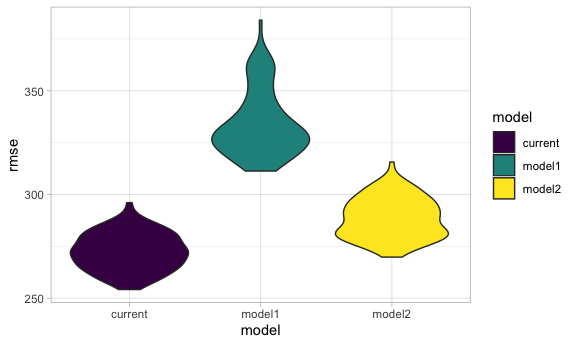
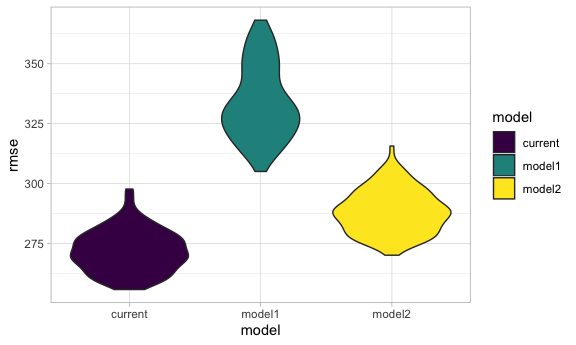
add comment to the two distribution plots

diff --git a/hw6.md b/hw6.md
@@ -353,9 +353,9 @@ cv_df %>%
 
 | model   | avg\_rmse |
 | :------ | --------: |
-| current |  272.3942 |
-| model1  |  334.0407 |
-| model2  |  288.5015 |
+| current |  271.7712 |
+| model1  |  333.7550 |
+| model2  |  288.3390 |
 
 According to the plot and table, we know that current model has better
 predictive capability compared to the two given models.
@@ -388,7 +388,7 @@ weather_df =
 
     ## file min/max dates: 1869-01-01 / 2020-11-30
 
-##### produce estimated of the two quantities
+##### produce estimated of the r-square and log(beta0\*beta1)
 
 ``` r
 boot_straps = 
@@ -449,6 +449,8 @@ beta_df %>%
 ```
 
 <img src="hw6_files/figure-gfm/unnamed-chunk-10-2.png" width="90%" />
+According to these to plots, we can conclude that the distribution of
+the r-square and log(beta0\*beta1) are aprroximately normal.
 
 ##### identify the 2.5% and 97.5% quantiles to provide a 95% confidence interval for r-square and log(beta0\*beta1)
 
@@ -493,7 +495,7 @@ beta_df %>%
 
 | names |      x |
 | :---- | -----: |
-| 2.5%  | 1.9635 |
-| 97.5% | 2.0588 |
+| 2.5%  | 1.9663 |
+| 97.5% | 2.0602 |
 
 The 95% confidence interval for log(beta0\*beta1)
